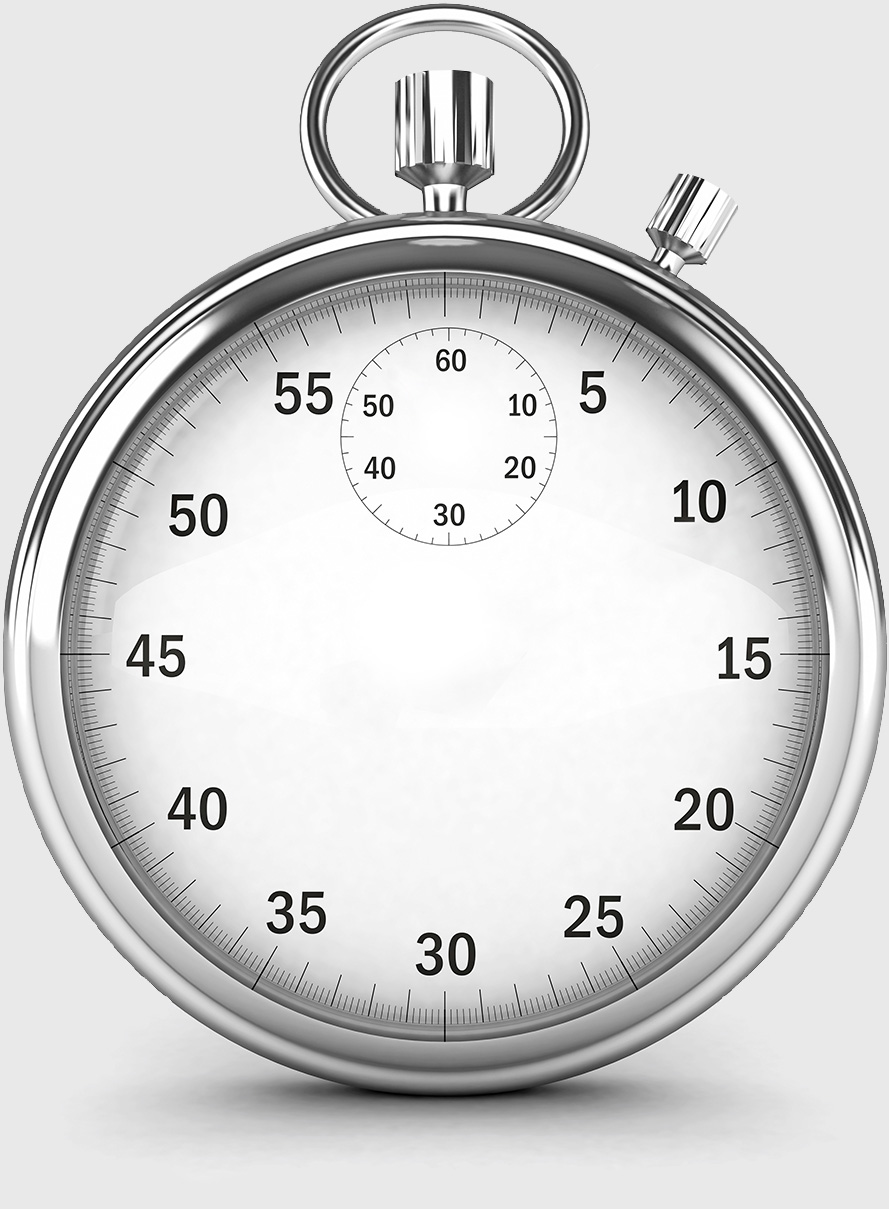
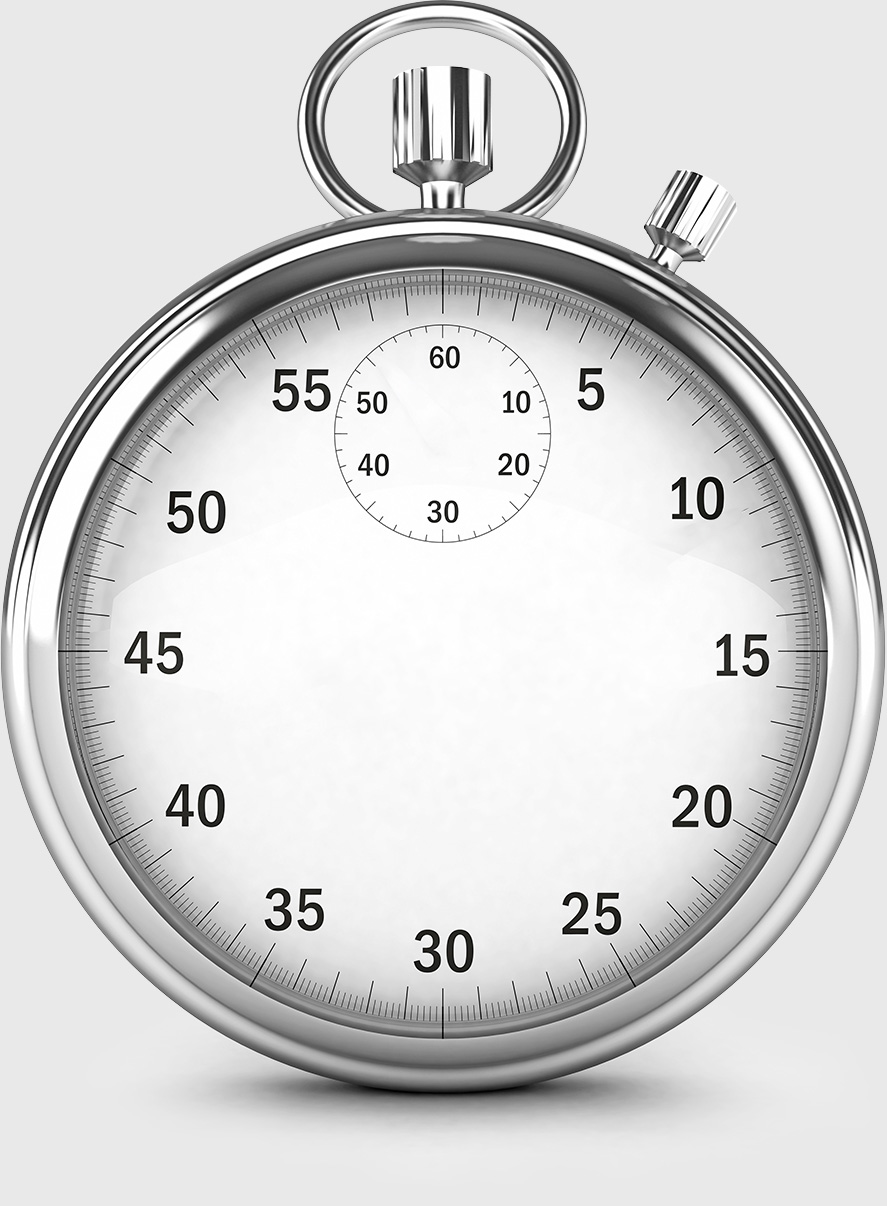
issue #7

diff --git a/source/elements/clock/clock.css b/source/elements/clock/clock.css
@@ -6,7 +6,7 @@
     position: absolute;
     right: 100%;
     top: 50%;
-    margin: -318px 90px 0 0;
+    margin: -288px 90px 0 0;
     background: url("../images/clock.jpg") 50% 50% no-repeat;
     background-size: contain;
     transform-origin: 0 0;
@@ -17,6 +17,7 @@
                 transform: rotate(120deg);
                 }
             &__arrow {
+                &_short,
                 &_long {
                     transition: transform 1.5s .8s linear;
                     transform: rotate(120deg);
@@ -62,23 +63,24 @@
             line-height: 0;
 
             position: absolute;
-            top: 253px;
-            left: 4px;
+            top: 250px;
+            left: 0;
             right: 0;
 
             margin: auto;
 
             transform: rotate(0deg);
-            animation: secondsarrow 60s linear infinite;
+            transition: transform 0s .5s linear;
             z-index: 2;
 
             &:after{
                 position: absolute;
                 content: "";
-                top: -52px;
-                left: -11px;
-                background: url("../images/arrow-small.png") 50% 0 no-repeat;
-                width: 25px;
+                top: -54px;
+                left: -5.5px;
+                background: url("../images/arrow-small.svg") 50% 0 no-repeat;
+                background-size: contain;
+                width: 11px;
                 height: 70px;
             }
         }
@@ -92,17 +94,14 @@
             line-height: 0;
 
             position: absolute;
-            top: 380px;
-            left: 4px;
+            top: 382px;
+            left: 0;
             right: 0;
 
             margin: auto;
 
-            transform: rotate(120deg);
             transform: rotate(0deg);
-
             transition: transform 0s .5s linear;
-
             z-index: 2;
 
             &:after{
@@ -110,14 +109,14 @@
                 content: "";
                 top: -192px;
                 left: -16px;
-                background: url("../images/arrow-big.png") 50% 0 no-repeat;
-                width: 32px;
+                background: url("../images/arrow-big.svg") 50% 0 no-repeat;
+                background-size: contain;
+                width: 31px;
                 height: 250px;
             }
         }
     }
 }
-
 
 @media (max-width: 1200px) {
     html body{
